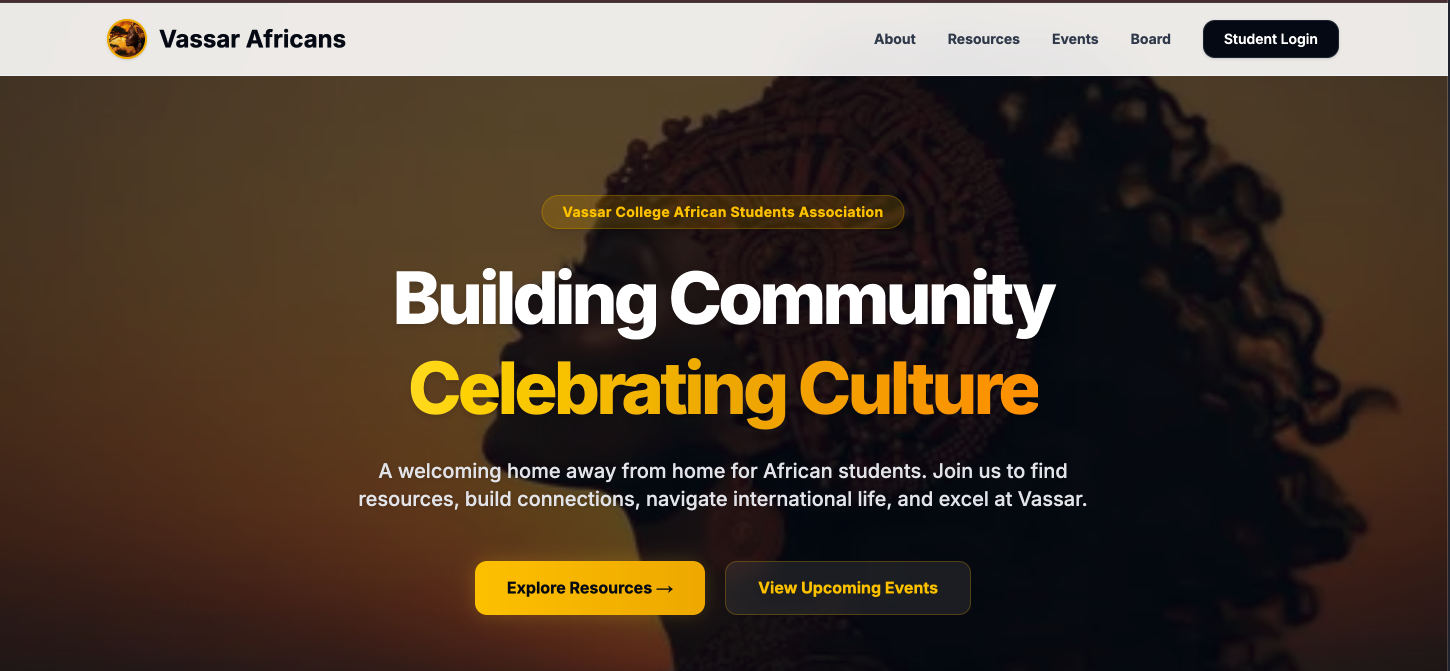
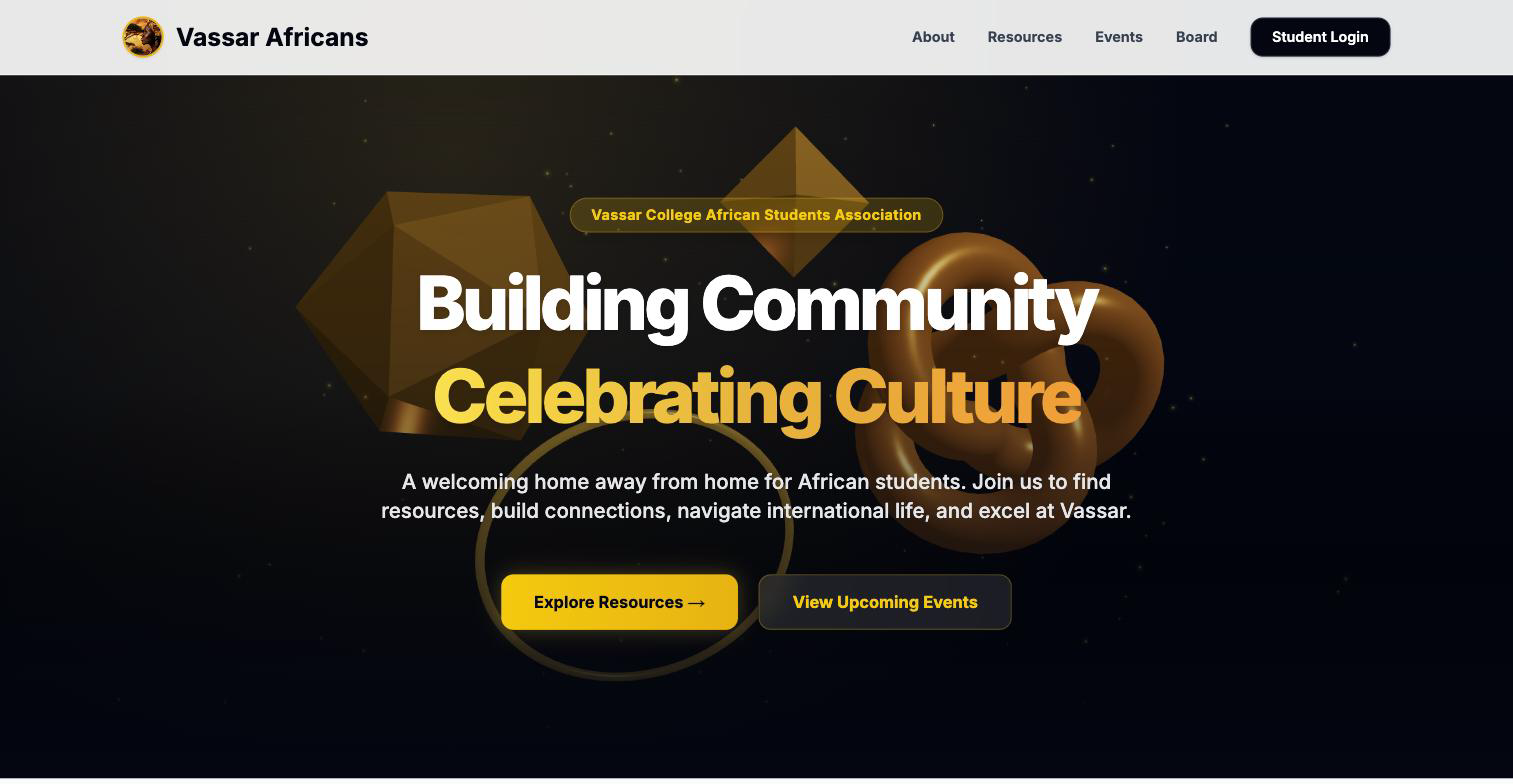
Refresh Vassar Africans project card with new 3D redesign
Update screenshots to reflect the new WebGL hero/auth backgrounds and
add Three.js to the listed stack.

diff --git a/lib/data.ts b/lib/data.ts
@@ -114,8 +114,8 @@ export const projects: Project[] = [
   {
     title: "Vassar African Students Association Website",
     description:
-      "Official web platform for VASU: a dynamic landing page, secure student-only sign-up/login flow, an internal resource hub (SSN, CPT/OPT, housing, insurance guides), and an internal dashboard/chat system. Live and in active use by ~150 members.",
-    stack: ["Next.js", "TypeScript", "Tailwind CSS", "Framer Motion", "Supabase"],
+      "Official web platform for VASU: an interactive 3D landing page (Three.js/WebGL hero), secure student-only sign-up/login flow, an internal resource hub (SSN, CPT/OPT, housing, insurance guides), and an internal dashboard/chat system. Live and in active use by ~150 members.",
+    stack: ["Next.js", "TypeScript", "Tailwind CSS", "Three.js", "Framer Motion", "Supabase"],
     href: "https://vassar-africans.vercel.app",
     featured: true,
     images: [
